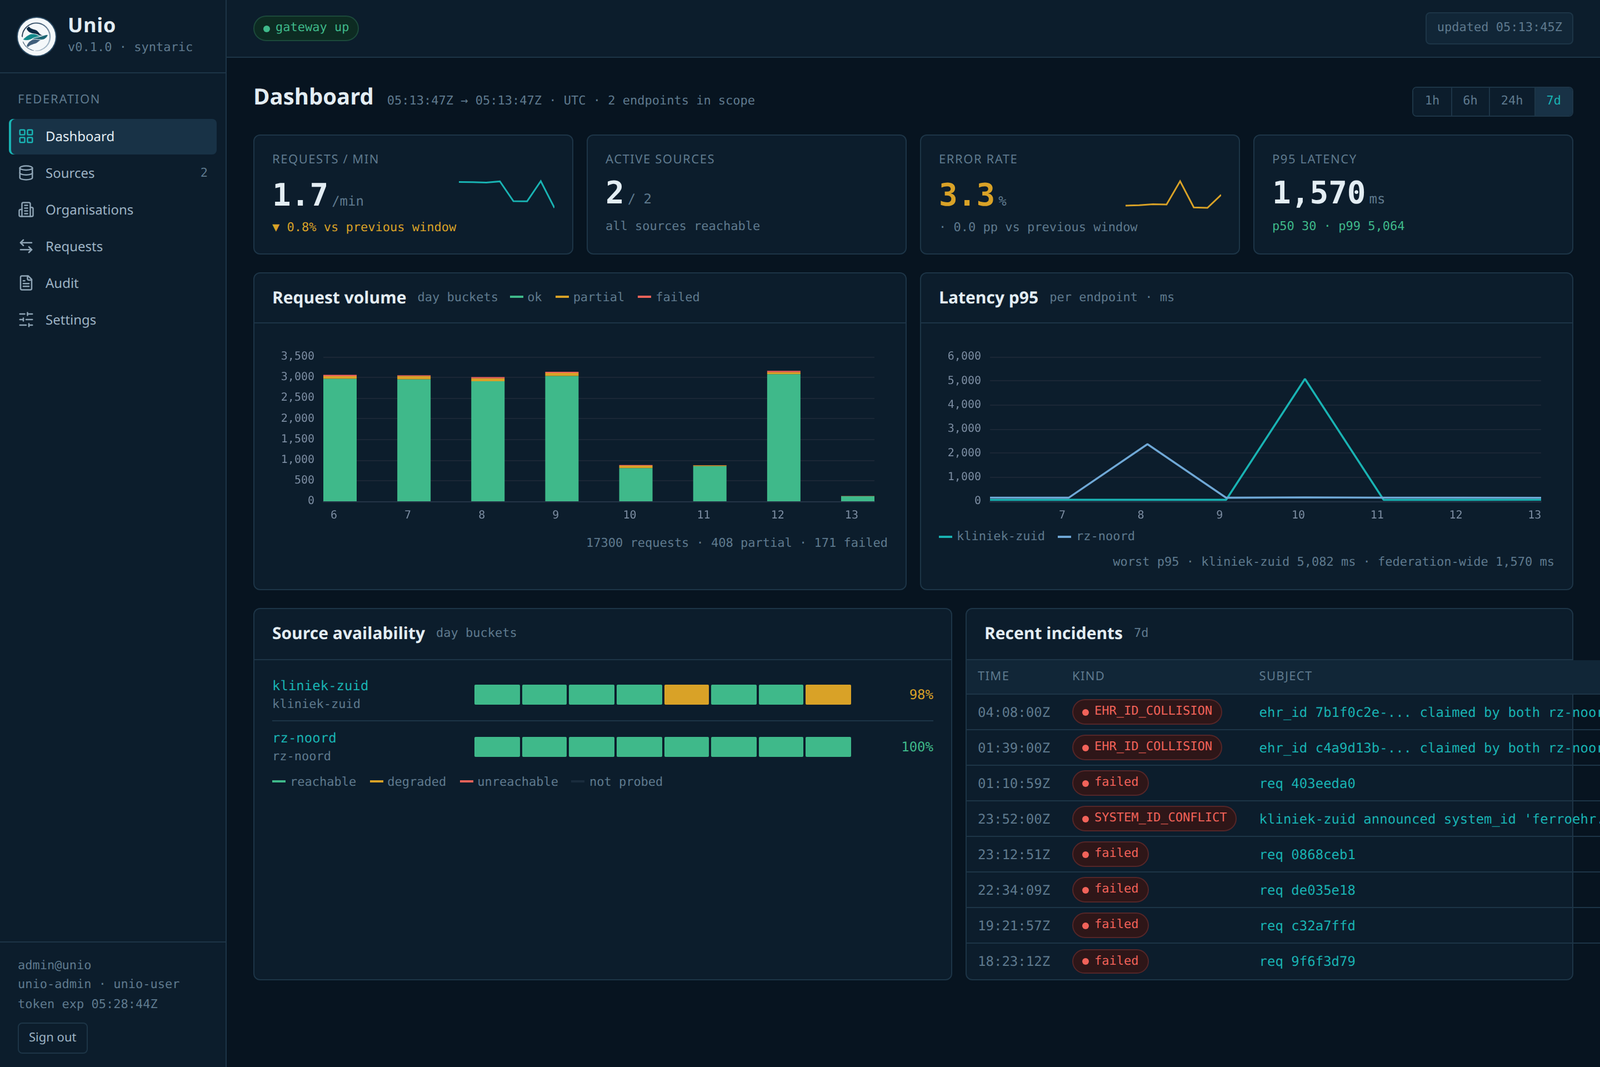
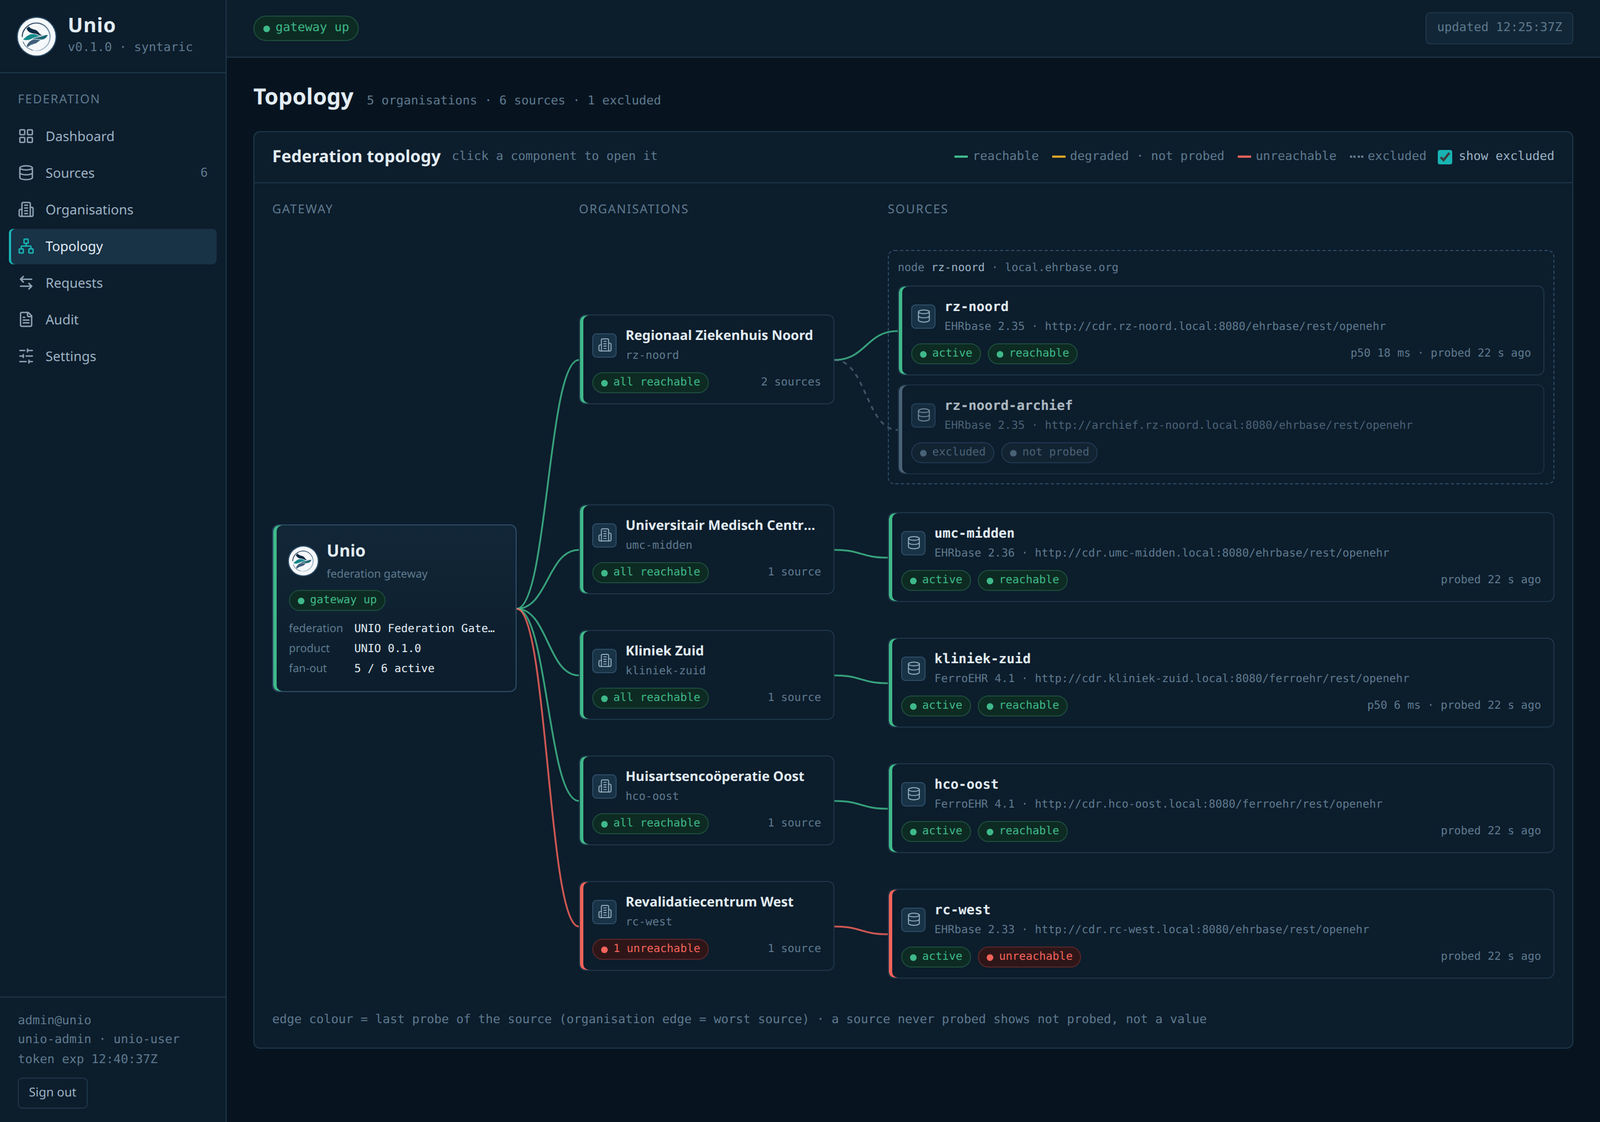
Unio product

diff --git a/index.html b/index.html
@@ -1646,7 +1646,7 @@
         <div class="container">
             <div class="unio-layout">
                 <div class="unio-visual">
-                    <img src="/images/unio-img.png" alt="Unio operator console showing requests, source availability and latency across a federation" class="unio-img" loading="lazy">
+                    <img src="/images/unio-img.png" alt="Unio operator console topology view: the gateway, the organisations it federates and the openEHR repository behind each, coloured by reachability" class="unio-img" loading="lazy">
                 </div>
                 <div>
                     <p class="unio-tag">Our Product</p>
